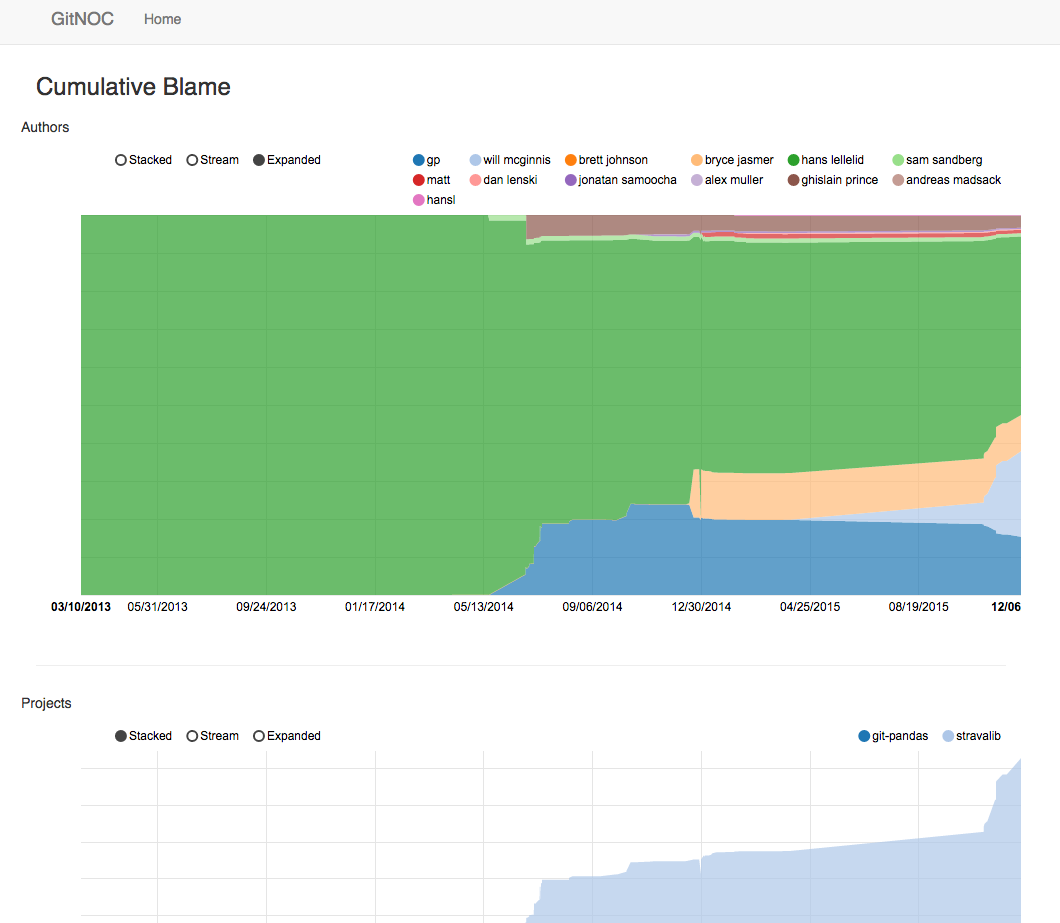
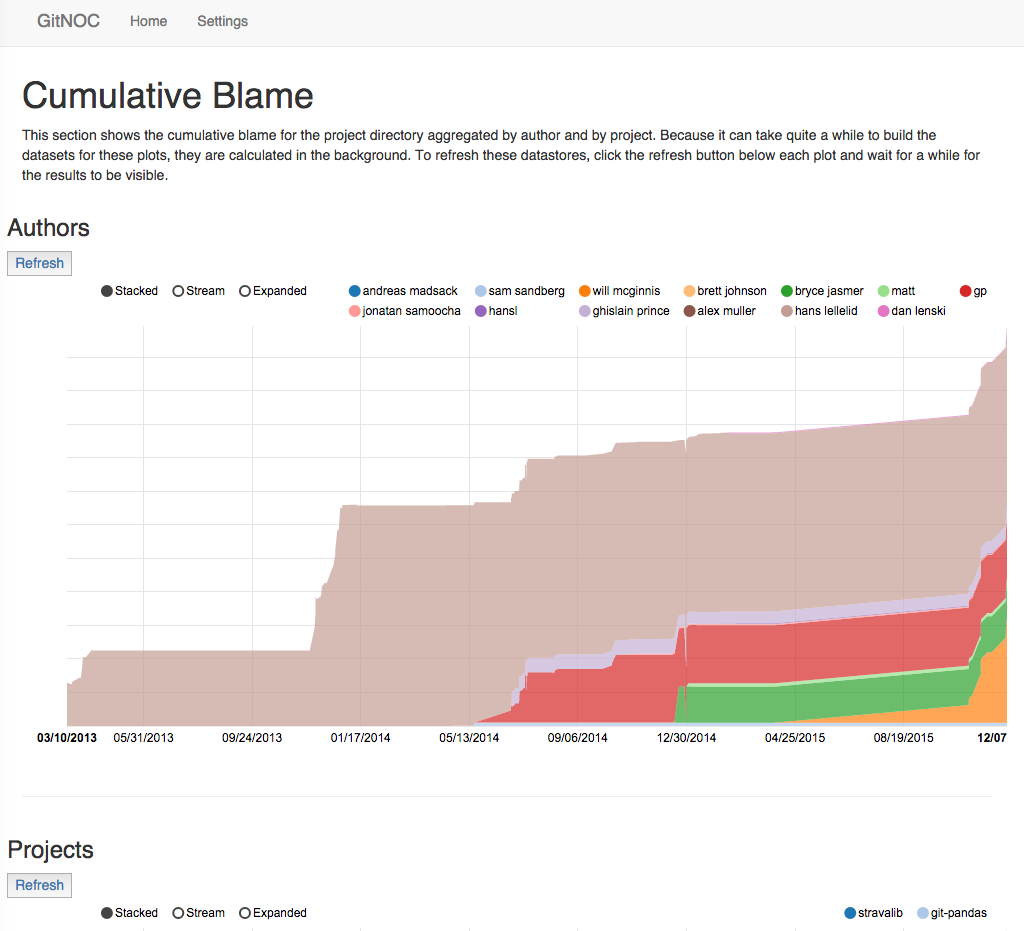
added some basic config functionality and saving the plot data to disk

diff --git a/gitnoc/templates/macros.html b/gitnoc/templates/macros.html
@@ -1,0 +1,97 @@
+{# Renders field for bootstrap 3 standards.
+
+    Params:
+        field - WTForm field
+        kwargs - pass any arguments you want in order to put them into the html attributes.
+        There are few exceptions: for - for_, class - class_, class__ - class_
+
+    Example usage:
+        {{ macros.render_field(form.email, placeholder='Input email', type='email') }}
+#}
+{% macro render_field(field, label_visible=true) -%}
+
+    <div class="form-group {% if field.errors %}has-error{% endif %} {{ kwargs.pop('class_', '') }}">
+        {% if (field.type != 'HiddenField' and field.type !='CSRFTokenField') and label_visible %}
+            <label for="{{ field.id }}" class="control-label">{{ field.label }}</label>
+        {% endif %}
+        {{ field(class_='form-control', **kwargs) }}
+        {% if field.errors %}
+            {% for e in field.errors %}
+                <p class="help-block">{{ e }}</p>
+            {% endfor %}
+        {% endif %}
+    </div>
+{%- endmacro %}
+
+{# Renders checkbox fields since they are represented differently in bootstrap
+    Params:
+        field - WTForm field (there are no check, but you should put here only BooleanField.
+        kwargs - pass any arguments you want in order to put them into the html attributes.
+        There are few exceptions: for - for_, class - class_, class__ - class_
+
+    Example usage:
+        {{ macros.render_checkbox_field(form.remember_me) }}
+ #}
+{% macro render_checkbox_field(field) -%}
+    <div class="checkbox">
+        <label>
+            {{ field(type='checkbox', **kwargs) }} {{ field.label }}
+        </label>
+    </div>
+{%- endmacro %}
+
+{# Renders radio field
+    Params:
+        field - WTForm field (there are no check, but you should put here only BooleanField.
+        kwargs - pass any arguments you want in order to put them into the html attributes.
+        There are few exceptions: for - for_, class - class_, class__ - class_
+
+    Example usage:
+        {{ macros.render_radio_field(form.answers) }}
+ #}
+{% macro render_radio_field(field) -%}
+    {% for value, label, _ in field.iter_choices() %}
+        <div class="radio">
+            <label>
+                <input type="radio" name="{{ field.id }}" id="{{ field.id }}" value="{{ value }}">{{ label }}
+            </label>
+        </div>
+    {% endfor %}
+{%- endmacro %}
+
+{# Renders WTForm in bootstrap way. There are two ways to call function:
+     - as macros: it will render all field forms using cycle to iterate over them
+     - as call: it will insert form fields as you specify:
+     e.g. {% call macros.render_form(form, action_url=url_for('login_view'), action_text='Login',
+                                        class_='login-form') %}
+                {{ macros.render_field(form.email, placeholder='Input email', type='email') }}
+                {{ macros.render_field(form.password, placeholder='Input password', type='password') }}
+                {{ macros.render_checkbox_field(form.remember_me, type='checkbox') }}
+            {% endcall %}
+
+     Params:
+        form - WTForm class
+        action_url - url where to submit this form
+        action_text - text of submit button
+        class_ - sets a class for form
+    #}
+{% macro render_form(form, action_url='', action_text='Submit', class_='', btn_class='btn btn-default') -%}
+
+    <form method="POST" action="{{ action_url }}" role="form" class="{{ class_ }}">
+        {{ form.hidden_tag() if form.hidden_tag }}
+        {% if caller %}
+            {{ caller() }}
+        {% else %}
+            {% for f in form %}
+                {% if f.type == 'BooleanField' %}
+                    {{ render_checkbox_field(f) }}
+                {% elif f.type == 'RadioField' %}
+                    {{ render_radio_field(f) }}
+                {% else %}
+                    {{ render_field(f) }}
+                {% endif %}
+            {% endfor %}
+        {% endif %}
+        <button type="submit" class="{{ btn_class }}">{{ action_text }} </button>
+    </form>
+{%- endmacro %}

diff --git a/gitnoc/templates/index.html b/gitnoc/templates/index.html
@@ -2,18 +2,21 @@
 {% block content %}
 <br><br><br>
 <div class="row">
-    <h3>Cumulative Blame</h3>
+    <h1>Cumulative Blame</h1>
+    <p>This section shows the cumulative blame for the project directory aggregated by author and by project. Because
+    it can take quite a while to build the datasets for these plots, they are calculated in the background. To refresh
+    these datastores, click the refresh button below each plot and wait for a while for the results to be visible.</p>
     <div class="row">
-        <h5>Authors</h5>
-
+        <h3>Authors</h3>
+        <a href="{{url_for('cumulative_author_blame')}}"><button>Refresh</button></a>
         <div id="chart_cumulative_author_blame" style="width:100%">
             <svg style="height:500px; width:100%"></svg>
         </div>
     </div>
     <hr>
     <div class="row">
-        <h5>Projects</h5>
-
+        <h3>Projects</h3>
+        <a href="{{url_for('cumulative_project_blame')}}"><button>Refresh</button></a>
         <div id="chart_cumulative_project_blame" style="width:100%">
             <svg style="height:500px; width:100%"></svg>
         </div>

diff --git a/gitnoc/templates/settings.html b/gitnoc/templates/settings.html
@@ -1,0 +1,23 @@
+{% extends 'base.html' %}
+{% from 'macros.html' import render_form %}
+{% block content %}
+    <br><br><br>
+    <div class="row">
+        <div class="col-lg-12">
+            <h1>Settings</h1>
+            <hr>
+            <p>Here you can configure which directory your projects live in and what to ignore or include. The first thing is
+            the project directory, you have a couple of options:
+            </p>
+            <ul>
+                <li>Enter a single absolute path to the directory that contains one or more git repositories</li>
+                <li>Entire a comma separate list of explicit paths of git repositories to include</li>
+            </ul>
+            <p>For the other two, you can either leave them blank for all extensions and no directories ignored, respectively,
+            or enter a comma separated list of values.</p>
+        </div>
+    </div>
+    <div class="your-form">
+        {{ render_form(form, action_url='/settings', action_text='Update Settings') }}
+    </div>
+{% endblock content %}

diff --git a/gitnoc/templates/nav.html b/gitnoc/templates/nav.html
@@ -7,13 +7,14 @@
                 <span class="icon-bar"></span>
                 <span class="icon-bar"></span>
             </button>
-            <a class="navbar-brand" href="#">
+            <a class="navbar-brand" href="{{url_for('index')}}">
                 {{ title }}
             </a>
         </div>
         <div class="collapse navbar-collapse navbar-ex1-collapse">
             <ul class="nav navbar-nav">
-                <li><a href="#">Home</a></li>
+                <li><a href="{{url_for('index')}}">Home</a></li>
+                <li><a href="{{url_for('settings')}}">Settings</a></li>
             </ul>
         </div>
     </div>

diff --git a/gitnoc/static/js/main.js b/gitnoc/static/js/main.js
@@ -42,6 +42,6 @@ var cumulative_project_blame = function (cpb_data) {
   });
 };
 
-d3.json("/cumulative_author_blame", cumulative_author_blame);
-d3.json("/cumulative_project_blame", cumulative_project_blame);
+d3.json("./static/data/cumulative_author_blame.json", cumulative_author_blame);
+d3.json("./static/data/cumulative_project_blame.json", cumulative_project_blame);
 

diff --git a/gitnoc/templates/base.html b/gitnoc/templates/base.html
@@ -28,6 +28,9 @@
         {% block content %}{% endblock %}
     </div>
 </div>
+<br>
+<br>
+<hr>
 {% include "footer.html" %}
 {% for s in base_scripts %}
     <script src="{{ url_for('static', filename=s) }}"></script>

diff --git a/gitnoc/app.py b/gitnoc/app.py
@@ -1,6 +1,8 @@
-from flask import Flask, render_template
+from flask import Flask, render_template, redirect, url_for, request
 import json
+import os
 from gitpandas import ProjectDirectory
+from gitnoc.forms.public import SettingsForm
 
 TITLE = "GitNOC"
 
@@ -18,10 +20,15 @@ css = [
     "./css/main.css"
 ]
 
-# use list for explicit declaration or string with directory of repos for implicit
-project_dir = ['../../git-pandas', '../../stravalib']
-
 app = Flask(__name__)
+app.secret_key = 'CHANGEME'
+
+
+def get_settings():
+    try:
+        return json.load(open('settings.json', 'r'))
+    except:
+        return {}
 
 
 @app.route('/', methods=["GET"])
@@ -29,11 +36,48 @@ def index():
     return render_template('index.html', title=TITLE, base_scripts=scripts, css=css)
 
 
+@app.route('/settings', methods=["GET", "POST"])
+def settings():
+    form = SettingsForm(request.form)
+    if form.validate_on_submit():
+        settings = get_settings()
+        settings.update({
+            'ignore_dir': form.ignore_dir.data,
+            'project_dir': form.project_directory.data,
+            'extensions': form.extensions.data
+        })
+        json.dump(settings, open('settings.json', 'w'))
+
+    settings = get_settings()
+    extensions = settings.get('extensions', None)
+    if extensions is not None:
+        form.extensions.default = ', '.join(extensions)
+
+    project_dir = settings.get('project_dir', None)
+    if project_dir is not None:
+        if isinstance(project_dir, list):
+            form.project_directory.default = ', '.join(project_dir)
+        else:
+            form.project_directory.default = project_dir
+
+    ignore_dir = settings.get('ignore_dir', None)
+    if ignore_dir is not None:
+        form.ignore_dir.default = ', '.join(ignore_dir)
+
+    form.process()
+
+    return render_template('settings.html', form=form, title=TITLE, base_scripts=scripts, css=css)
+
+
 @app.route('/cumulative_author_blame', methods=['GET', 'POST'])
 def cumulative_author_blame():
-    # TODO: just write these to a static json file with a refresh button
+    settings = get_settings()
+    project_dir = settings.get('project_dir', os.getcwd())
+    extensions = settings.get('extensions', None)
+    ignore_dir = settings.get('ignore_dir', None)
+
     repo = ProjectDirectory(working_dir=project_dir)
-    cb = repo.cumulative_blame(extensions=['py'])
+    cb = repo.cumulative_blame(extensions=extensions, ignore_dir=ignore_dir)
     cb = cb[~cb.index.duplicated()]
     t = json.loads(cb.to_json(orient='columns'))
 
@@ -46,14 +90,22 @@ def cumulative_author_blame():
             blob['values'].append([int(float(data_point)), t[committer][data_point]])
             blob['values'] = sorted(blob['values'], key=lambda x: x[0])
         d3_data.append(blob)
-    return json.dumps(d3_data)
+
+    # dump the data to disk
+    filename = 'cumulative_author_blame.json'
+    json.dump(d3_data, open(str(os.path.dirname(os.path.abspath(__file__))) + os.sep + 'static' + os.sep + 'data' + os.sep + filename, 'w'))
+    return redirect(url_for('index'))
 
 
 @app.route('/cumulative_project_blame', methods=['GET', 'POST'])
 def cumulative_project_blame():
-    # TODO: just write these to a static json file with a refresh button
+    settings = get_settings()
+    project_dir = settings.get('project_dir', os.getcwd())
+    extensions = settings.get('extensions', None)
+    ignore_dir = settings.get('ignore_dir', None)
+
     repo = ProjectDirectory(working_dir=project_dir)
-    cb = repo.cumulative_blame(extensions=['py'], by='project')
+    cb = repo.cumulative_blame(extensions=extensions, ignore_dir=ignore_dir, by='project')
     cb = cb[~cb.index.duplicated()]
     t = json.loads(cb.to_json(orient='columns'))
 
@@ -66,7 +118,11 @@ def cumulative_project_blame():
             blob['values'].append([int(float(data_point)), t[committer][data_point]])
             blob['values'] = sorted(blob['values'], key=lambda x: x[0])
         d3_data.append(blob)
-    return json.dumps(d3_data)
+
+    # dump the data to disk
+    filename = 'cumulative_project_blame.json'
+    json.dump(d3_data, open(str(os.path.dirname(os.path.abspath(__file__))) + os.sep + 'static' + os.sep + 'data' + os.sep + filename, 'w'))
+    return redirect(url_for('index'))
 
 if __name__ == "__main__":
     app.run(debug=True)

diff --git a/gitnoc/forms/public.py b/gitnoc/forms/public.py
@@ -1,0 +1,35 @@
+from flask_wtf import Form
+from wtforms import StringField
+from wtforms.validators import DataRequired
+
+__author__ = 'willmcginnis'
+
+
+class SettingsForm(Form):
+    project_directory = StringField('Project Directory (absolute path)', validators=[DataRequired()])
+    extensions = StringField('Extensions to Report On')
+    ignore_dir = StringField('Directories to Ignore')
+
+    def __init__(self, *args, **kwargs):
+        super(SettingsForm, self).__init__(*args, **kwargs)
+
+    def validate(self):
+        initial_validation = super(SettingsForm, self).validate()
+        if not initial_validation:
+            return False
+
+        self.project_directory.data = [str(x).strip() for x in self.project_directory.data.split(',')]
+        if len(self.project_directory.data) == 1:
+            self.project_directory.data = self.project_directory.data[0]
+
+        if self.extensions.data is not None:
+            self.extensions.data = [str(x).strip() for x in self.extensions.data.split(',')]
+            if len(self.extensions.data) == 1:
+                self.extensions.data = self.extensions.data[0]
+
+        if self.ignore_dir.data is not None:
+            self.ignore_dir.data = [str(x).strip() for x in self.ignore_dir.data.split(',')]
+            if len(self.ignore_dir.data) == 1:
+                self.ignore_dir.data = self.ignore_dir.data[0]
+
+        return True
